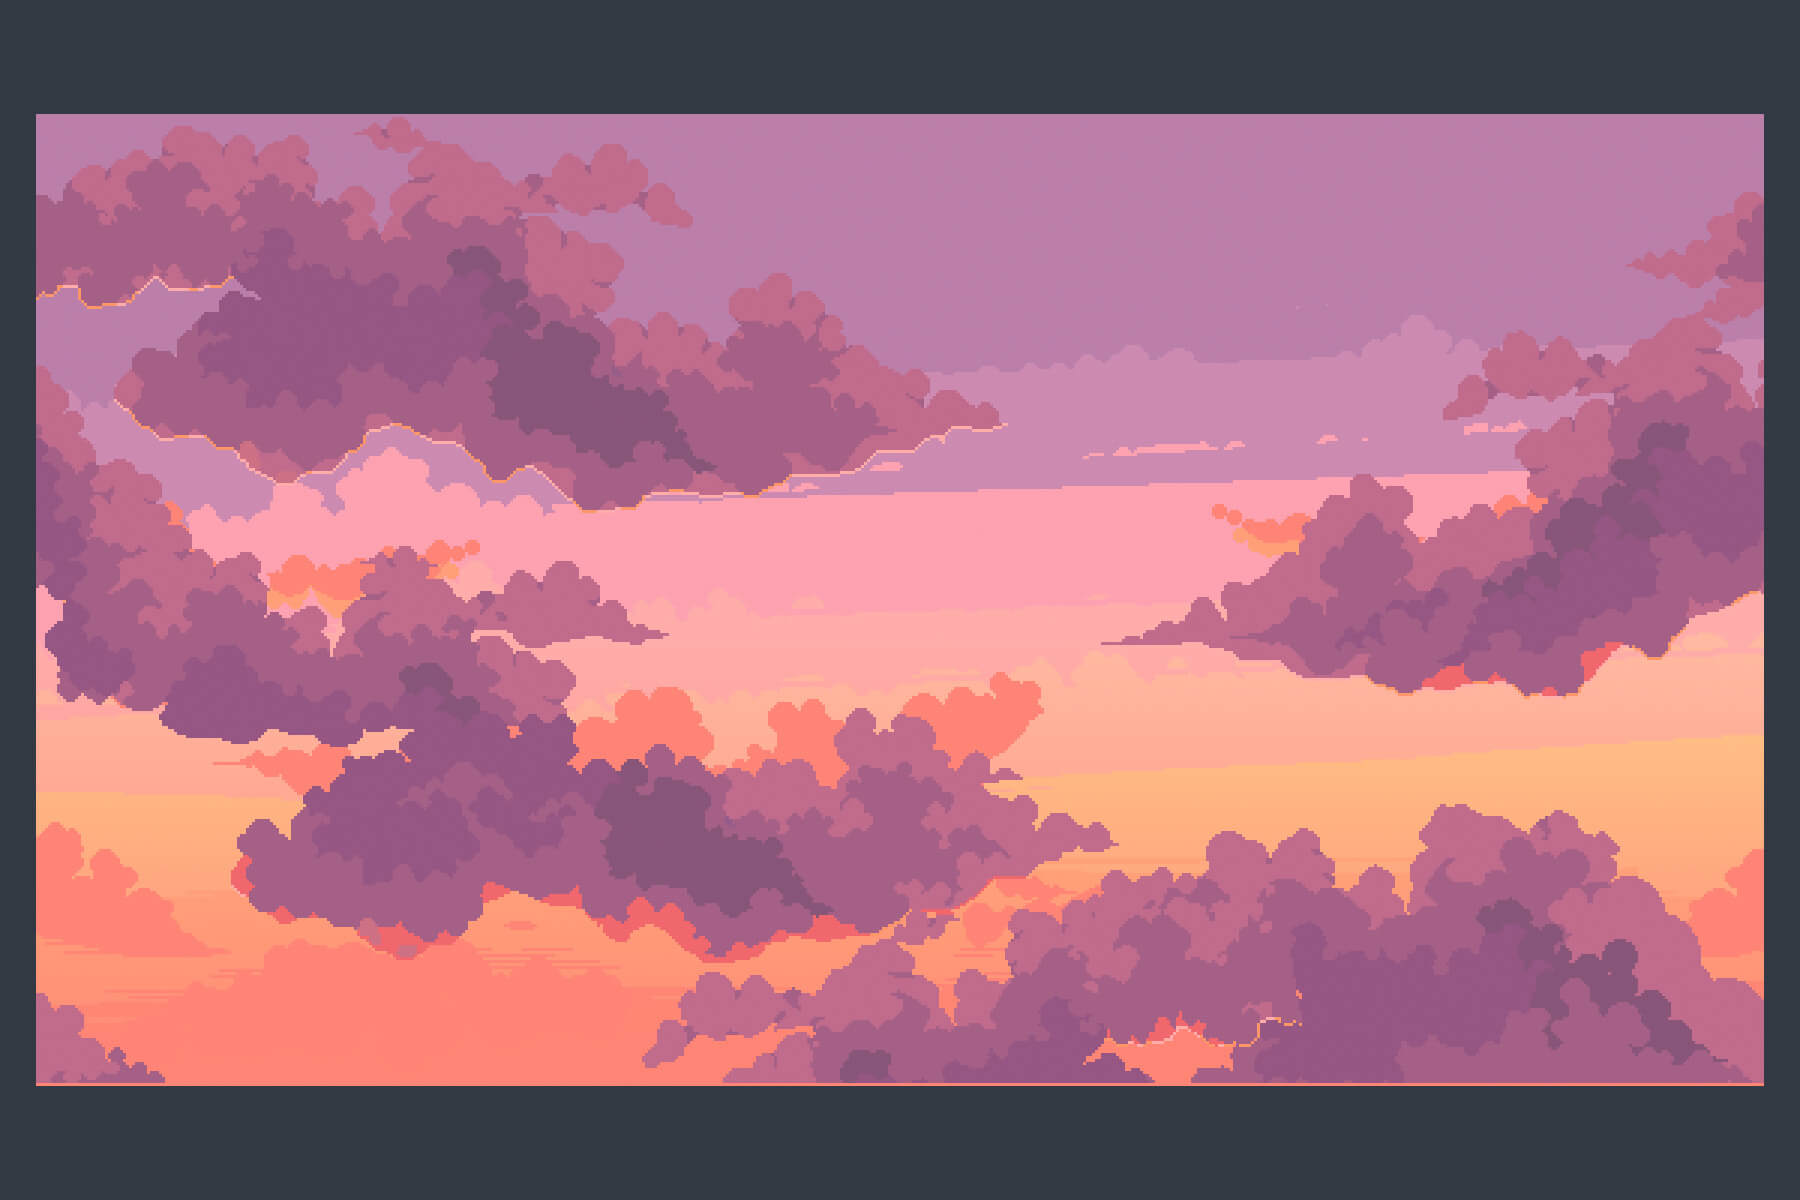
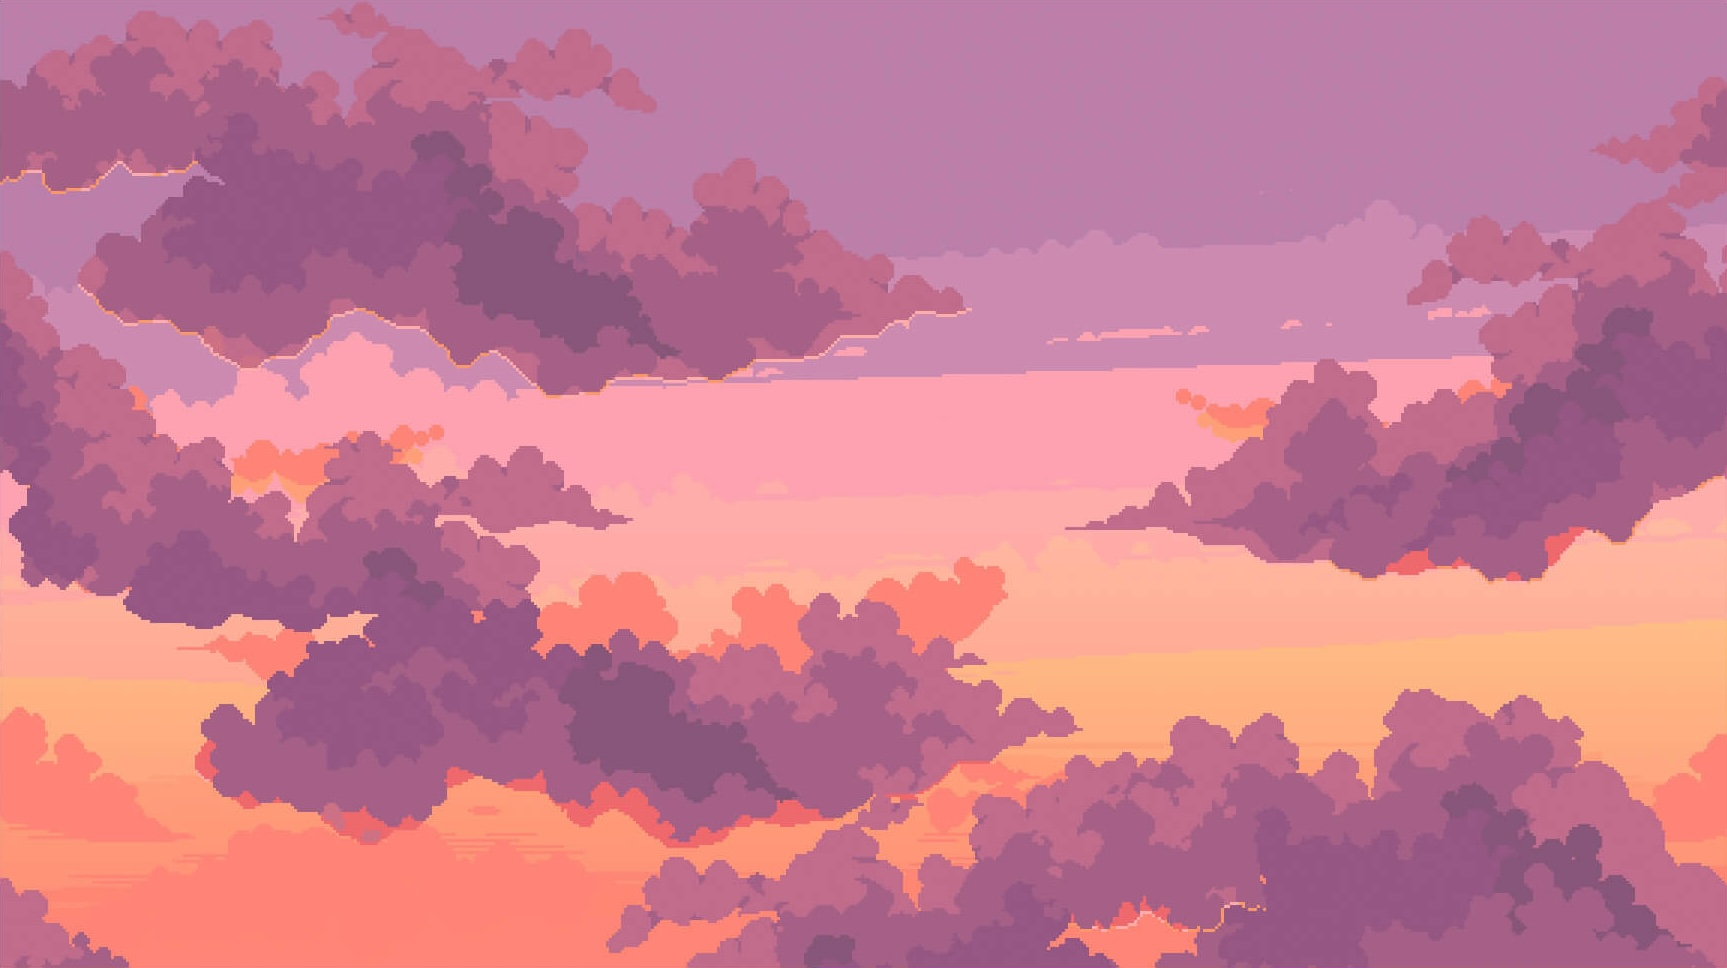
backgrounds! sprites! everything good in the world!

diff --git a/src/Game.java b/src/Game.java
@@ -1,6 +1,11 @@
 import java.awt.*;
 import java.awt.event.KeyEvent;
+import java.awt.image.BufferStrategy;
 import java.awt.image.BufferedImage;
+import java.io.File;
+import java.io.IOException;
+
+import javax.imageio.ImageIO;
 import javax.swing.JFrame;
 import java.util.ArrayList;
 
@@ -14,6 +19,7 @@ public class Game extends JFrame {
 	private static final int WINDOW_HEIGHT = 768;
 	
 	private BufferedImage backBuffer;
+	private BufferedImage backgroundImage;
 	private Insets insets;
 	private InputHandler input;
 	
@@ -75,14 +81,25 @@ public class Game extends JFrame {
      * This method will set up everything need for the game to run
      */
     void initialize() {
-        setTitle("Adventure Default");
+        setTitle("Adventure");
         setSize(WINDOW_WIDTH, WINDOW_HEIGHT);
         setResizable(false);
         setDefaultCloseOperation(EXIT_ON_CLOSE);
-        setVisible(true);
+        
+        BackgroundPanel backgroundPanel = new BackgroundPanel("titlescreen.jpg");
+        setContentPane(backgroundPanel);
+        
         insets = getInsets();
         setSize(insets.left + WINDOW_WIDTH + insets.right,
                 insets.top + WINDOW_HEIGHT + insets.bottom);
+        
+        setVisible(true);
+        
+        try {
+        	backgroundImage = ImageIO.read(new File("titlescreen.jpg"));
+        } catch (IOException e) {
+            e.printStackTrace();
+        }
 
         backBuffer = new BufferedImage(WINDOW_WIDTH, WINDOW_HEIGHT, BufferedImage.TYPE_INT_RGB);
         input = new InputHandler(this);
@@ -143,9 +160,14 @@ public class Game extends JFrame {
     void draw() {
         Graphics g = getGraphics();
         Graphics bbg = backBuffer.getGraphics();
-
-        bbg.setColor(Color.WHITE);
-        bbg.fillRect(0, 0, WINDOW_WIDTH, WINDOW_HEIGHT);
+        
+        if (backgroundImage != null) {
+        	bbg.drawImage(backgroundImage, 0, 0, WINDOW_WIDTH, WINDOW_HEIGHT, null);
+        }
+        else {
+        	bbg.setColor(Color.WHITE);
+            bbg.fillRect(0, 0, WINDOW_WIDTH, WINDOW_HEIGHT);
+        }
 
         for (int i = 0; i < all_sprites.size(); i++) {
             all_sprites.get(i).draw(bbg);

diff --git a/src/BackgroundPanel.java b/src/BackgroundPanel.java
@@ -1,0 +1,31 @@
+import java.awt.event.*;
+import java.awt.image.BufferedImage;
+import java.io.File;
+import java.io.IOException;
+
+import javax.imageio.ImageIO;
+import javax.swing.*;
+import java.awt.*;
+
+public class BackgroundPanel extends JPanel {
+
+	private static final long serialVersionUID = -590708273272753510L;
+	private BufferedImage backgroundImage;
+
+	public BackgroundPanel(String file) {
+		try {
+            backgroundImage = ImageIO.read(new File(file));
+        } catch (IOException e) {
+            e.printStackTrace();
+            System.out.println(e.getMessage());
+        }
+    }
+
+    @Override
+    protected void paintComponent(Graphics g) {
+        super.paintComponent(g);
+        if (backgroundImage != null) {
+            g.drawImage(backgroundImage, 0, 0, getWidth(), getHeight(), this);
+        }
+    }
+}

diff --git a/src/TitleScreen.java b/src/TitleScreen.java
@@ -6,7 +6,8 @@ public class TitleScreen extends Game {
 	}
 	
 	public void initialize() {
-		BackgroundPanel backgroundPanel = new BackgroundPanel("path/to/your/image.jpg");
+		setSize(Game.getWindowWidth(), Game.getWindowHeight());
+		//BackgroundImageJFrame backgroundPanel = new BackgroundImageJFrame("titlescreen.jpg");
 		
 	}
 }

diff --git a/src/GameRunner.java b/src/GameRunner.java
@@ -4,6 +4,9 @@ public class GameRunner {
 
 	public static void main(String[] args) {
 		Game game = new Game();
+		
+		Hero h = new Hero("test.png", 50, 50, 10, "Test");
+        game.addHero(h);
         
         game.run();
 		
